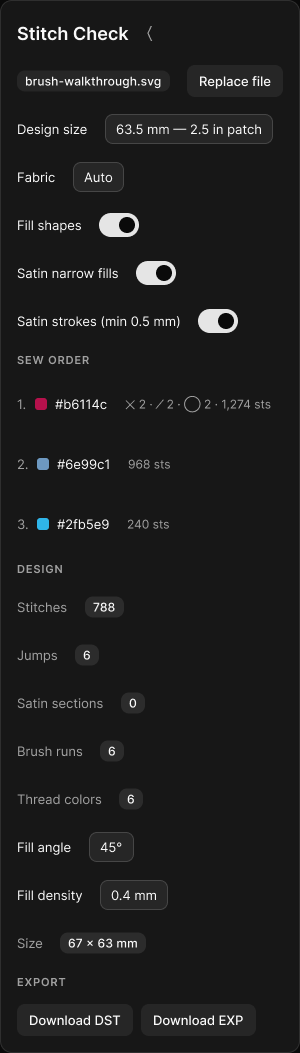
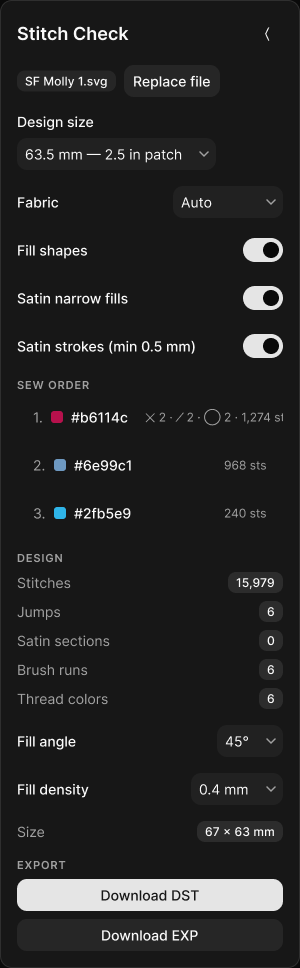
fix(openspec): rebuild the design frames from measured production
The first as-is frame was built by reading the JSX and got the
composition wrong. Rebuilt from geometry measured off the running page:
Design size wraps to two lines while Fabric does not (SelectRow is an
Inline wrap, so it depends on whether label + control fit 266px), selects
are 32px radius-10 with a chevron, sew-order rows are full-width 44px
buttons, and the export buttons are full-width and stacked with DST as
the light primary.

Panel heights corrected to 968 -> 728. The clipped composition on row 1
is left as-is because production clips it the same way.

diff --git a/openspec/changes/retire-umbrella-switches/design.md b/openspec/changes/retire-umbrella-switches/design.md
@@ -34,10 +34,10 @@ palette, deliberately not the hub skin (`app/svg-to-stitch/layout.tsx`).
 
 Unchanged in shape, shorter in practice. The panel reads top to bottom:
 file → design size → fabric → sew order → design stats → export. Removing
-the switch cluster and the two fill selects takes the panel from 1053 px
-to 813 px tall, which lifts **SEW ORDER** — the part a stitcher actually
-reads before sewing — roughly 145 px up the panel, above the fold on a
-short window.
+the switch cluster and the two fill selects takes the panel from 968 px
+to 728 px tall. The three switch rows sit above **SEW ORDER**, so it
+lifts 144 px — the part a stitcher actually reads before sewing moves up
+by roughly its own height.
 
 Nothing moves, nothing is renamed, nothing changes place. Five rows leave.
 
@@ -46,8 +46,8 @@ Nothing moves, nothing is renamed, nothing changes place. Five rows leave.
 | Item                | Value                                                                                                                                                                                                                                             |
 | ------------------- | ------------------------------------------------------------------------------------------------------------------------------------------------------------------------------------------------------------------------------------------------- |
 | Primary file URL    | <https://www.figma.com/design/hHAppz4A23qMoLQFTo8QAc> ("svg-to-stitch — retire-umbrella-switches")                                                                                                                                                |
-| As-is frame(s)      | `01 Current state` → `Current state · Desktop 1024` (node `4:165`), panel `4:60` — the shipped panel reconstructed from `app/svg-to-stitch/page.tsx`                                                                                              |
-| Proposed frame(s)   | `02 Proposed` → `Proposed · Desktop 1024` (node `5:2`), panel `5:3` — cloned from the as-is so the only difference is the five removed rows                                                                                                       |
+| As-is frame(s)      | `01 Current state` → `Current state · Desktop 1024` (node `8:123`), panel `8:12` — the shipped panel rebuilt from geometry measured off the running page, not from reading the JSX                                                                |
+| Proposed frame(s)   | `02 Proposed` → `Proposed · Desktop 1024` (node `8:131`), panel `8:132` — cloned from the as-is so the only difference is the five removed rows                                                                                                   |
 | Libraries / version | **MVDS Core** (library key in `rules/figma.mdc`) — `Badge` and `Switch` imported by key, the same two instances the `stitch-brushes` panel used. MVDS's `Tokens` collection is pinned to its **Dark** mode on each panel, matching `.mvds-theme`  |
 | Local variables     | `hub tokens` collection on `00 Components` — 11 colours converted from the oklch declarations in `app/globals.css`; panel and text fills are bound to them rather than hardcoded                                                                  |
 | Code Connect        | No mappings to update — no component is added, changed or renamed                                                                                                                                                                                 |
@@ -60,11 +60,38 @@ changed>` — never an edit to an approved page.
 
 ### Fidelity check
 
-The as-is frame was verified against production rather than assumed. The
-file badge reads `#262626` on `#fafafa` and the checked switch is a
-`#e5e5e5` track with a `#0a0a0a` knob — computed-style values read off
-`labs.beckharrisdesign.com/svg-to-stitch`, which is what caught the
-imported instances resolving MVDS's **Light** mode on import.
+The first as-is frame was rejected by the founder — "this figma doesn't
+match the current ui — especially the key value pairs with dropdowns or
+toggles". It had been built by reading the JSX, which got the
+composition wrong. The rebuild measures the running page instead:
+element boxes, font sizes, radii and computed colours pulled off
+`labs.beckharrisdesign.com/svg-to-stitch`, then reproduced.
+
+What reading the code missed, and measuring caught:
+
+| Element             | Assumed                      | Actual                                                          |
+| ------------------- | ---------------------------- | --------------------------------------------------------------- |
+| **Design size** row | label left, control right    | **wraps** — label on its own line, 199 px select beneath        |
+| Select trigger      | small pill, no affordance    | 32 px tall, radius 10, white @ 4.5%, **chevron** right          |
+| Sew-order rows      | text rows                    | full-width 44 px buttons, radius 10, 16 px side padding         |
+| Export buttons      | side by side, both secondary | **full width, stacked**; DST the light primary, EXP secondary   |
+| Labels              | 13 px regular                | 14 px medium (`Label`); stats 14 px regular (`CardDescription`) |
+| Stat badges         | solid fill                   | neutral at **15%** alpha                                        |
+
+`SelectRow` is `Inline … wrap`, so whether a row wraps depends on whether
+its label and control fit in 266 px — which is why **Design size** wraps
+and **Fabric** does not. That is emergent behaviour that reading the
+component could not have revealed.
+
+The imported MVDS `Badge` and `Switch` also resolved the library's
+**Light** mode on import — the switch rendered a dark track where
+production renders a light one. Both panels now pin `Tokens` to **Dark**:
+file badge `#262626` on `#fafafa`, checked switch `#e5e5e5` track with a
+`#0a0a0a` knob, matching the measured values.
+
+The clipped composition on sew-order row 1 is **not** a drawing error —
+production clips it the same way (`whiteSpace: nowrap`, no horizontal
+scroll). The frame reproduces the bug rather than quietly fixing it.
 
 ## Decisions
 
